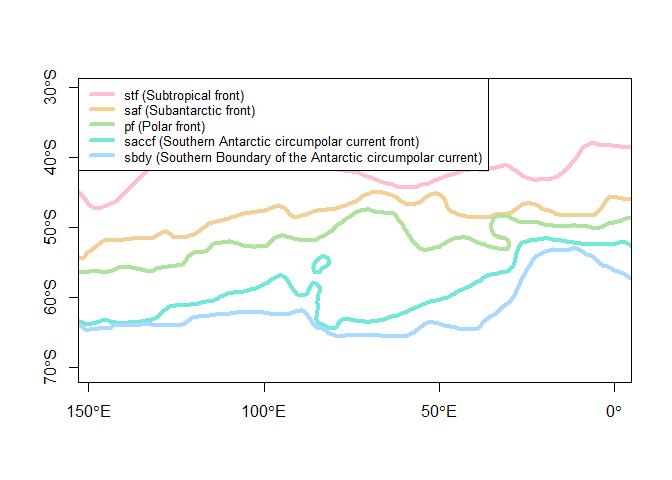
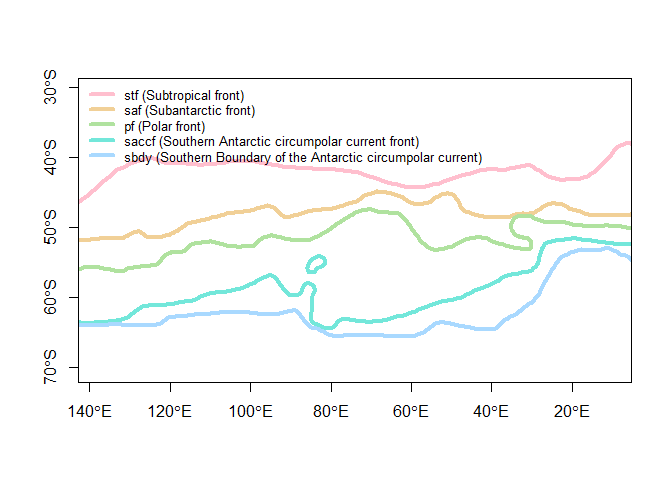
better image

diff --git a/README.md b/README.md
@@ -11,6 +11,9 @@ library(orsifronts)
 #> Loading required package: sp
 cols <- hcl(seq(0, 240, length = nrow(orsifronts)), c = 50)
 plot(orsifronts, col = cols, lwd = 2)
+degAxis(1)
+degAxis(2)
+box()
 ```
 
 ![](README-unnamed-chunk-2-1.png)
@@ -25,8 +28,8 @@ as.data.frame(orsifronts)
 #> pf                                               Polar front    pf
 #> saccf           Southern Antarctic circumpolar current front saccf
 #> sbdy  Southern Boundary of the Antarctic circumpolar current  sbdy
-plot(orsifronts, xlim = c(130, 18), col = cols, asp = 1/cos(60 * pi / 180), lwd = 4)
-legend("topleft", sprintf("%s (%s)", orsifronts$front, orsifronts$name),  col = cols, lwd = 4, cex = 0.8)
+plot(orsifronts, xlim = c(130, 18), col = cols, asp = 1/cos(55 * pi / 180), lwd = 4)
+legend("topleft", sprintf("%s (%s)", orsifronts$front, orsifronts$name),  col = cols, lwd = 4, cex = 0.8, bty = "n")
 degAxis(1)
 degAxis(2)
 box()
